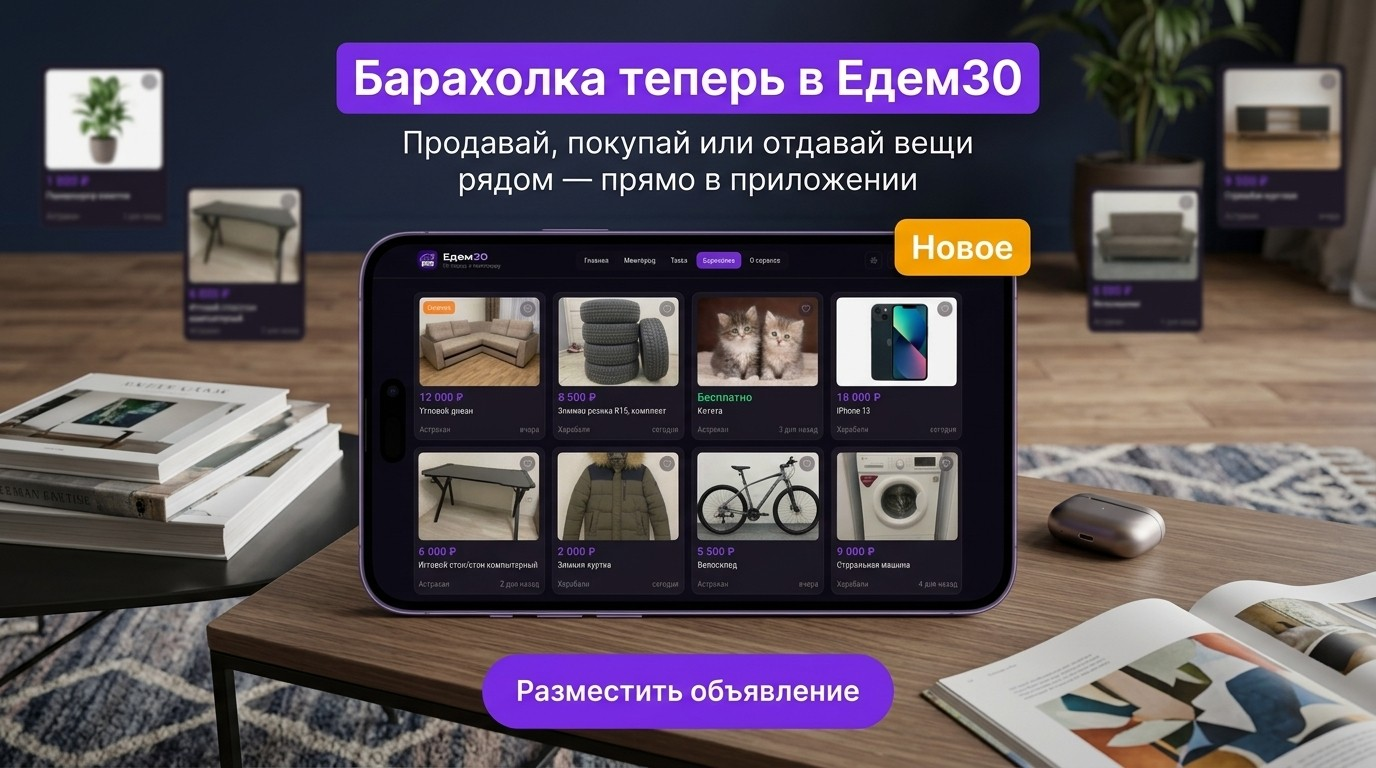
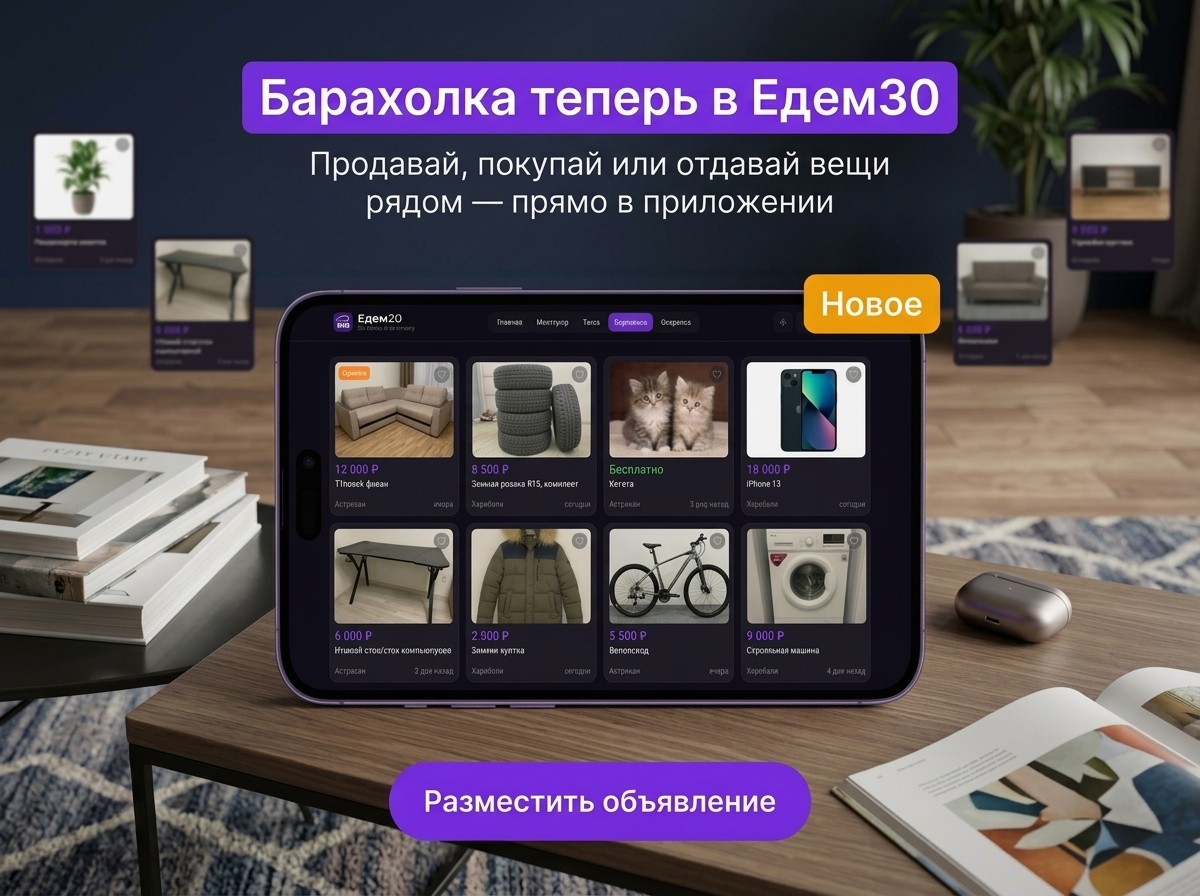
Swap marketplace announcement to the latest creative variant
New image is 1200x896; re-mapped the "Разместить объявление" hotspot
to its position in this version.

diff --git a/components/home/MarketplaceAnnouncementCard.tsx b/components/home/MarketplaceAnnouncementCard.tsx
@@ -52,8 +52,8 @@ export default function MarketplaceAnnouncementCard() {
           <Image
             src="/marketplace-announcement.jpg"
             alt="Барахолка теперь в Едем30 — продавай, покупай или отдавай вещи рядом"
-            width={1376}
-            height={768}
+            width={1200}
+            height={896}
             className="w-full h-auto"
             priority
           />
@@ -64,7 +64,7 @@ export default function MarketplaceAnnouncementCard() {
           onClick={dismiss}
           aria-label="Разместить объявление"
           className="absolute z-10 rounded-full hover:bg-white/10 active:bg-white/15 transition"
-          style={{ left: "35%", right: "35%", top: "84.5%", bottom: "5.5%" }}
+          style={{ left: "35%", right: "35%", top: "87.5%", bottom: "5%" }}
         />
       </div>
     </div>
